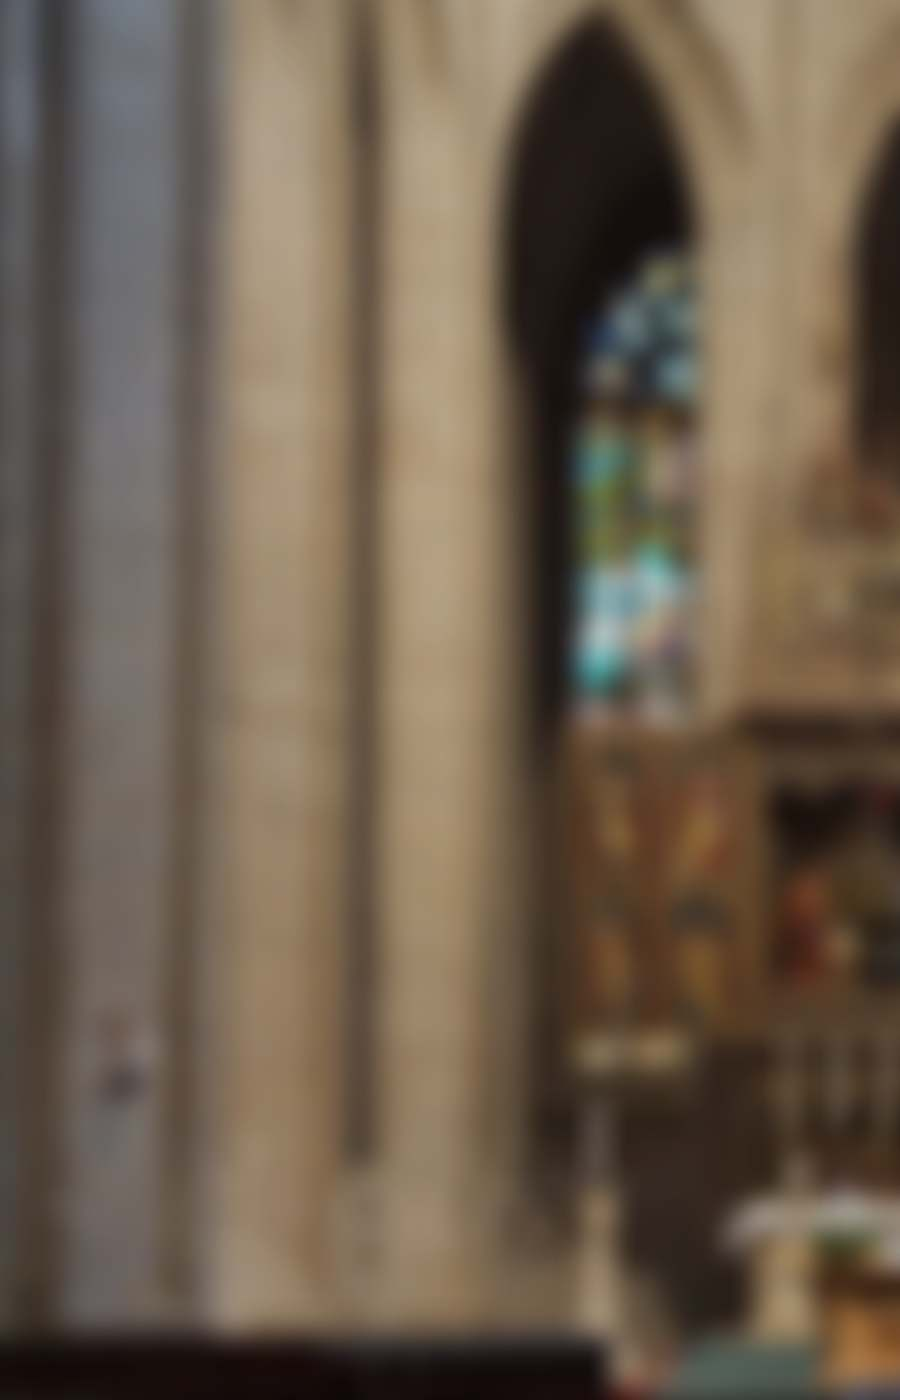
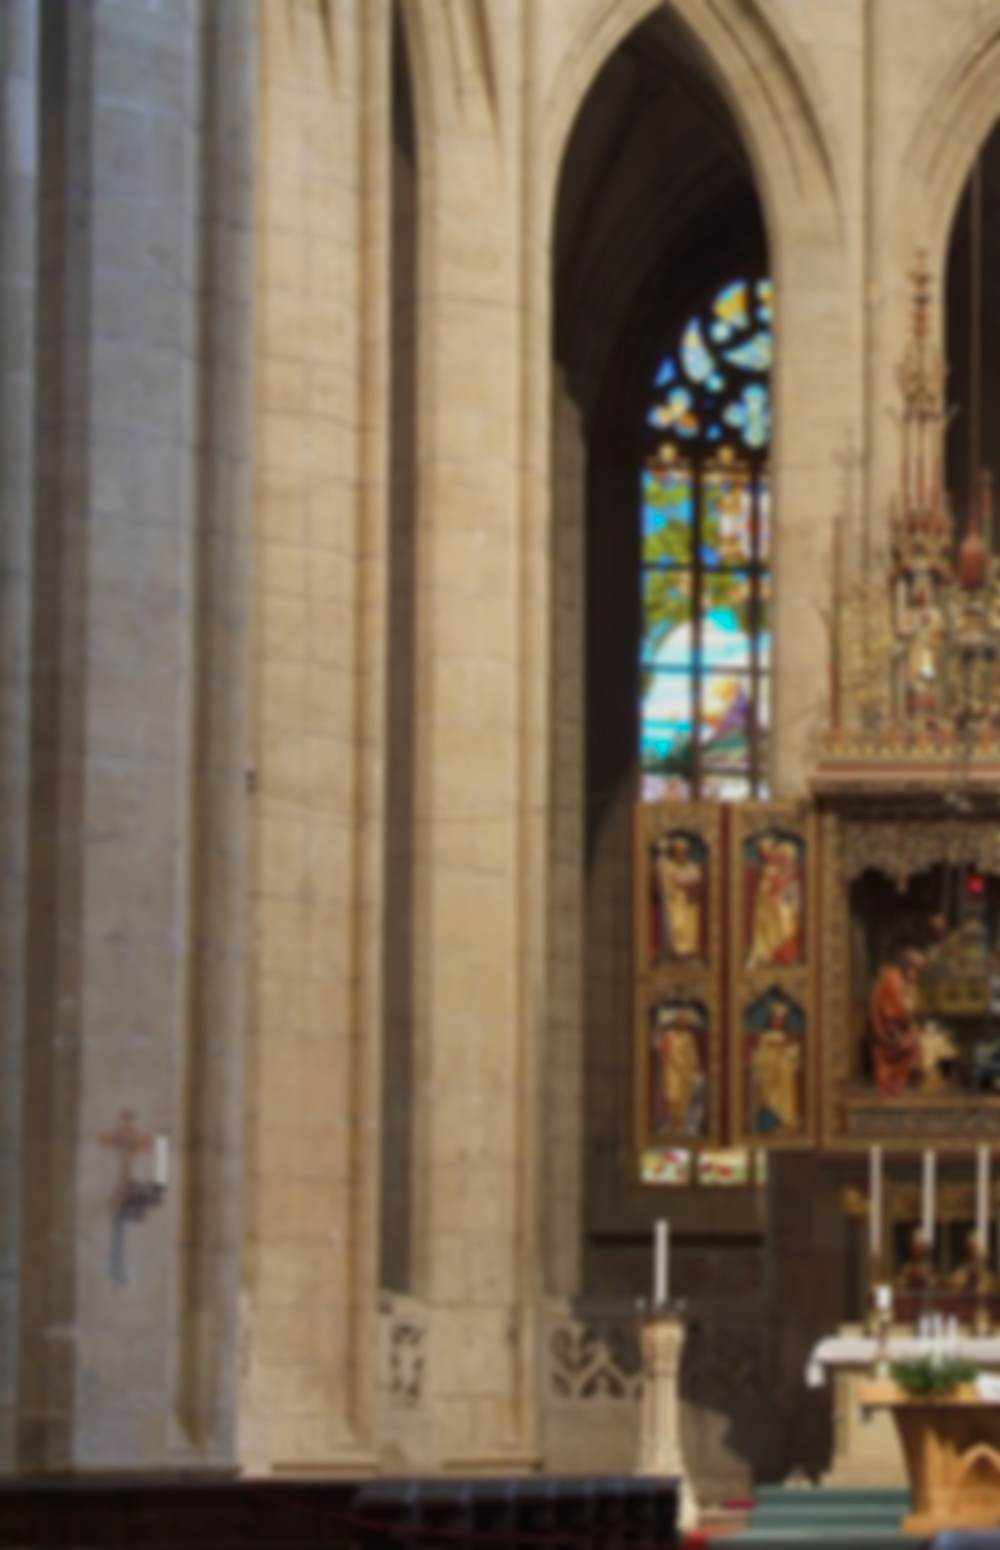
Make pack photos recognisable instead of a blurred smudge
Blur 14->4 at higher resolution and quality, backdrop opacity 0.20->0.5
with a gentler mask, so each place is actually identifiable. Readability
is now carried by the tiles (darker translucent fill, stronger border and
shadow, blur behind) and a top/bottom scrim rather than by hiding the
photo. Originals are cached outside the repo so the look can be retuned
without refetching from Commons.

Claude-Session: https://claude.ai/code/session_01SwJtYM6ikQdgRXnRMV67Rt

diff --git a/web/css/style.css b/web/css/style.css
@@ -73,18 +73,18 @@ body {
   background-position: center;
   opacity: 0;
   transition: opacity 0.9s ease;
-  /* keep the puzzle readable no matter how bright the photo is */
-  mask-image: linear-gradient(to bottom, rgba(0,0,0,0.95) 0%, rgba(0,0,0,0.55) 55%, rgba(0,0,0,0.15) 100%);
-  -webkit-mask-image: linear-gradient(to bottom, rgba(0,0,0,0.95) 0%, rgba(0,0,0,0.55) 55%, rgba(0,0,0,0.15) 100%);
+  /* fades a little toward the wheel, so the photo stays visible up top */
+  mask-image: linear-gradient(to bottom, #000 0%, rgba(0,0,0,0.92) 55%, rgba(0,0,0,0.6) 100%);
+  -webkit-mask-image: linear-gradient(to bottom, #000 0%, rgba(0,0,0,0.92) 55%, rgba(0,0,0,0.6) 100%);
 }
-#bg-photo.on { opacity: 0.20; }
-/* scrim: keeps the pack's colour theme dominant and the tiles high-contrast */
+#bg-photo.on { opacity: 0.5; }
+/* scrim: darkens the photo just enough for white text and tiles to pop */
 .bg::after {
   content: '';
   position: absolute;
   inset: 0;
   background:
-    radial-gradient(ellipse at 50% 26%, rgba(0, 0, 0, 0.30) 0%, rgba(0, 0, 0, 0.10) 45%, rgba(0, 0, 0, 0.40) 100%);
+    linear-gradient(to bottom, rgba(0, 0, 0, 0.42) 0%, rgba(0, 0, 0, 0.22) 22%, rgba(0, 0, 0, 0.18) 60%, rgba(0, 0, 0, 0.45) 100%);
   pointer-events: none;
 }
 .bg-blob {
@@ -122,6 +122,7 @@ body {
 }
 #pack-name:active { opacity: 1; }
 #level-label { font-size: 19px; font-weight: 900; }
+.tb-left { text-shadow: 0 1px 6px rgba(0, 0, 0, 0.5); }
 .tb-right { display: flex; align-items: center; gap: 10px; }
 
 .icon-btn {
@@ -194,11 +195,11 @@ body {
   font-size: calc(var(--cell) * 0.55);
   font-weight: 900;
   color: var(--ink);
-  background: rgba(255, 255, 255, 0.15);
-  border: 1px solid rgba(255, 255, 255, 0.22);
-  box-shadow: inset 0 -2px 0 rgba(0, 0, 0, 0.06), 0 2px 8px rgba(0, 0, 0, 0.18);
-  backdrop-filter: blur(2px);
-  -webkit-backdrop-filter: blur(2px);
+  background: rgba(12, 16, 38, 0.34);
+  border: 1px solid rgba(255, 255, 255, 0.30);
+  box-shadow: inset 0 -2px 0 rgba(0, 0, 0, 0.10), 0 3px 10px rgba(0, 0, 0, 0.30);
+  backdrop-filter: blur(4px);
+  -webkit-backdrop-filter: blur(4px);
   position: relative;
 }
 .cell.empty { visibility: hidden; }

diff --git a/web/sw.js b/web/sw.js
@@ -1,6 +1,6 @@
 // Slovotoč service worker – cache-first for same-origin assets so the game
 // works offline after the first visit.
-const CACHE = 'slovotoc-v7';
+const CACHE = 'slovotoc-v8';
 const CORE = [
   './',
   './index.html',
